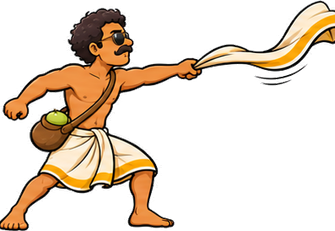
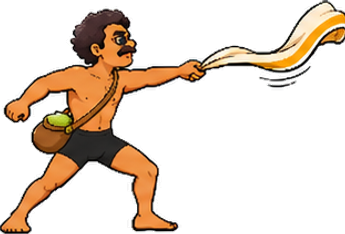
Mundu finale: updated Kannan sheet (one mundu, boxers after), he hangs from the mundu tied to the tusk, stones, sparks, dust, pulsing eye, shock ring and CRASH at the hit

Changed region(s): [[0.0, 0.0, 1.0, 1.0], [0.4478, 0.9091, 0.4776, 0.9394]]

diff --git a/index.html b/index.html
@@ -1089,7 +1089,29 @@ function mkPos(c,t){const gy=GY+1,te=mkTe(t),hold=t>=240&&t<240+MK_HOLD,headY=bo
   else if(te<302){x=c.bcx-c.dir*74;f='c'}
   else if(te<440){x=c.bcx-c.dir*74;f='b'}else{x=c.bcx-c.dir*74;f='m'}
   return {x,y,f}}
-function mkTick(){const c=cin;c.t++;const t=c.t,te=mkTe(t);
+/* Effects for the key illustration (stones and sparks leaping off the ground, dust, a pulsing eye, a shock ring at the hit). They are small canvases drawn on the full-resolution layer so they show over the illustration. */
+const MKFX={};
+function mkFxImg(k){if(MKFX[k])return MKFX[k];const c=document.createElement('canvas'),x=c.getContext('2d');
+  if(k==='stone'){c.width=9;c.height=8;x.fillStyle='#2a1c14';x.beginPath();x.moveTo(1,6);x.lineTo(2,2);x.lineTo(5,0);x.lineTo(8,3);x.lineTo(7,7);x.closePath();x.fill();x.fillStyle='#6a5240';x.beginPath();x.moveTo(2,2);x.lineTo(5,0);x.lineTo(6,2);x.lineTo(3,3);x.closePath();x.fill();x.fillStyle='#ffb840';x.fillRect(7,3,1,2)}
+  else if(k==='spark'){c.width=5;c.height=5;x.fillStyle='#fff6c0';x.fillRect(2,0,1,5);x.fillRect(0,2,5,1);x.fillStyle='#ffd860';x.fillRect(1,1,3,3)}
+  else if(k==='dust'||k==='glow'){c.width=c.height=48;const gr=x.createRadialGradient(24,24,2,24,24,24);if(k==='dust'){gr.addColorStop(0,'rgba(190,160,120,.7)');gr.addColorStop(1,'rgba(190,160,120,0)')}else{gr.addColorStop(0,'rgba(255,170,40,.95)');gr.addColorStop(1,'rgba(255,120,0,0)')}x.fillStyle=gr;x.fillRect(0,0,48,48)}
+  else if(k==='ring'){c.width=c.height=96;x.strokeStyle='rgba(255,236,170,.9)';x.lineWidth=5;x.beginPath();x.arc(48,48,42,0,6.2832);x.stroke()}
+  return MKFX[k]=c}
+function mkFxTick(c,t){const fx=c.fx||(c.fx=[]);
+  const hold=t>=240&&t<MK_HIT;
+  if(hold){shake=Math.max(shake,2+Math.floor((t-240)/30));
+    if(t%2===0)fx.push({k:'stone',x:W*(.08+Math.random()*.84),y:H-6,vx:(Math.random()-.5)*1.4,vy:-(2.4+Math.random()*3),g:.16,r:0,vr:(Math.random()-.5)*.3,l:70,s:1+Math.random()*.8});
+    if(t%3===0)fx.push({k:'spark',x:W*(.1+Math.random()*.8),y:H-10-Math.random()*60,vx:(Math.random()-.5)*.6,vy:-(.6+Math.random()*1.4),g:-.005,r:0,vr:0,l:60,s:1.2});
+    if(t%7===0)fx.push({k:'dust',x:W*(.05+Math.random()*.9),y:H-18,vx:(Math.random()-.5)*.5,vy:-.35,g:0,r:0,vr:0,l:60,s:1+Math.random()*.9})}
+  if(t===MK_HIT){for(let i=0;i<46;i++)fx.push({k:'stone',x:W*(.18+Math.random()*.6),y:H-8,vx:(Math.random()-.5)*5.5,vy:-(4+Math.random()*7),g:.2,r:0,vr:(Math.random()-.5)*.5,l:110,s:1.2+Math.random()*1.4});
+    for(let i=0;i<30;i++)fx.push({k:'spark',x:W*(.3+Math.random()*.4),y:H*.45+Math.random()*50,vx:(Math.random()-.5)*6,vy:-(1+Math.random()*4),g:.06,r:0,vr:0,l:70,s:1.4});
+    for(let i=0;i<6;i++)fx.push({k:'dust',x:W*(.15+Math.random()*.7),y:H-22,vx:(Math.random()-.5)*2,vy:-.8,g:0,r:0,vr:0,l:80,s:1.8+Math.random()})}
+  for(const p of fx){p.x+=p.vx;p.vy+=p.g;p.y+=p.vy;p.r+=p.vr;p.l--}
+  c.fx=fx.filter(p=>p.l>0&&p.y<H+20)}
+function mkFxDraw(c,t){const fx=c.fx||[];
+  for(const p of fx){const im=mkFxImg(p.k),a=Math.max(0,Math.min(1,p.l/(p.k==='dust'?40:25))),sz=Math.round(im.width*p.s*(p.k==='dust'?1+(70-Math.min(70,p.l))*.01:1));g.globalAlpha=a*(p.k==='dust'?.5:1);nimg(im,Math.round(p.x-sz/2),Math.round(p.y-sz/2),sz,sz)}
+  g.globalAlpha=1}
+function mkTick(){const c=cin;c.t++;const t=c.t,te=mkTe(t);mkFxTick(c,t);
   /* Pey Komban staggers away from the wall towards the middle of the arena */
   if(t<70){const u=Math.min(1,t/70),e=u*u*(3-2*u);boss.x=c.bx0+(c.bxT-c.bx0)*e}else boss.x=c.bxT;
   if(t===2){if(!sfx('boss_roar_komban'))beep(90,.5,'sawtooth',.07);shake=10}
@@ -1116,12 +1138,17 @@ function drawMk(cx){const c=cin,t=c.t,te=mkTe(t),big=ART.mk_big_0;
   if(bi>=0){const sway=bi===1?Math.round(Math.sin(t*.12)*2):0;g.globalAlpha=al;mkImg(ART['mk_b_'+bi],bx+sway,by,MKS_B*(bi===4?1:1),!flip);g.globalAlpha=1}
   if(t>=MK_HIT+14&&t<MK_HIT+160){const k=Math.min(1,(t-MK_HIT-14)/30)*(t>MK_HIT+100?Math.max(0,1-(t-MK_HIT-100)/60):1);glowEll(Math.round(c.bcx-cx),GY-30,Math.round(50*k)+8,Math.round(70*k)+8,'#ffd860',.3*k)}
   /* the mundu pulled taut between his hand and the tusk while he swings in */
-  if(t>=150&&t<240){const kp=mkPos(c,t),hx=Math.round(kp.x-cx)+c.dir*6,hy=Math.round(kp.y)-34,tx=Math.round(c.bcx-cx-c.dir*30),ty=GY-86,n=24;
-    g.fillStyle='#f4ecd0';for(let i=0;i<=n;i++){const u=i/n,px=Math.round(hx+(tx-hx)*u),py=Math.round(hy+(ty-hy)*u+Math.sin(u*Math.PI)*3);g.fillRect(px,py,2,2);if(i%5===0){g.fillStyle='#e0b840';g.fillRect(px,py,2,1);g.fillStyle='#f4ecd0'}}}
+  if(t>=150&&t<240){const kp=mkPos(c,t),hx=Math.round(kp.x-cx)+c.dir*4,hy=Math.round(kp.y)+22-(t<205?52:42),tx=Math.round(c.bcx-cx-c.dir*28),ty=GY-92,n=26;/* he hangs from the mundu tied to the tusk */
+    g.fillStyle="#f4ecd0";for(let i=0;i<=n;i++){const u=i/n,px=Math.round(hx+(tx-hx)*u),py=Math.round(hy+(ty-hy)*u+Math.sin(u*Math.PI)*2);g.fillRect(px,py,3,3);if(i%5===0){g.fillStyle='#e0b840';g.fillRect(px,py,2,1);g.fillStyle='#f4ecd0'}}}
   /* the key illustration: Kannan on the demon's head, the mundu knotted round his tusks, pulled tight */
   if(big&&t>=240-6&&t<MK_HIT+22){const fin=Math.min(1,(t-234)/14),fout=t>=MK_HIT?Math.max(0,1-(t-MK_HIT)/20):1,sh=t<MK_HIT?Math.round(Math.sin(t*1.7)*(1+(t-240)/60)):0;
     g.globalAlpha=1;g.fillStyle='rgba(8,6,20,'+(.9*fin*fout).toFixed(2)+')';g.fillRect(0,0,W,H);
-    const w=Math.max(W,Math.round(270*big.width/big.height))+10,h=Math.round(w*big.height/big.width);g.globalAlpha=fin*fout;nimg(big,Math.round((W-w)/2)+sh,-Math.round((h-H)*.3)+Math.round(sh/2),w,h);g.globalAlpha=1}
+    const w=Math.max(W,Math.round(270*big.width/big.height))+10,h=Math.round(w*big.height/big.width),ix=Math.round((W-w)/2)+sh,iy=-Math.round((h-H)*.3)+Math.round(sh/2);g.globalAlpha=fin*fout;nimg(big,ix,iy,w,h);
+    /* his eye pulses, the ground glows where the stones fly */
+    const pu=.65+.35*Math.sin(t*.35);g.globalAlpha=fin*fout*pu*.8;const gl=mkFxImg('glow');nimg(gl,Math.round(ix+w*.462-24),Math.round(iy+h*.404-24),48,48);
+    g.globalAlpha=1}
+  if(t>=MK_HIT&&t<MK_HIT+26){const u=(t-MK_HIT)/26,rs=Math.round(60+u*620);g.globalAlpha=1-u;nimg(mkFxImg('ring'),Math.round(W*.5-rs/2),Math.round(H*.55-rs/2),rs,rs);ntext('CRASH!',Math.round(W/2),Math.round(H*.18-u*12),Math.round(34+u*10),'#fff0b0','center');g.globalAlpha=1}
+  mkFxDraw(c,t);
   /* Thoma arrives with a fresh mundu */
   if(te>=360&&t>=240+MK_HOLD){const th=ART.hs_thoma_0;if(th){const tgx=c.bcx-c.dir*74-c.dir*38,from=c.dir>0?-40:W+40,p=Math.min(1,(te-360)/60),e=1-(1-p)*(1-p),tx=Math.round(from+(tgx-cx-from)*e);
       mkImg(th,tx,GY+3,66/300,c.dir<0)

diff --git a/tools/smoke-test.js b/tools/smoke-test.js
@@ -12,7 +12,7 @@ const only = args.includes('--only');
 const html = fs.readFileSync(path.join(__dirname, '..', 'index.html'), 'utf8');
 const js = html.match(/<script>([\s\S]*)<\/script>/)[1];
 
-const ctx = () => ({ imageSmoothingEnabled: false, measureText: () => ({ width: 5 }), fillText() {}, strokeText() {}, clearRect() {}, setTransform() {}, createImageData: (w, h) => ({ data: new Uint8ClampedArray(w * h * 4) }), putImageData() {}, drawImage() {}, fillRect() {}, save() {}, restore() {}, beginPath() {}, rect() {}, clip() {}, arc() {}, fill() {}, stroke() {}, moveTo() {}, lineTo() {}, translate() {}, scale() {}, set fillStyle(v) {}, set globalCompositeOperation(v) {} });
+const ctx = () => ({ imageSmoothingEnabled: false, measureText: () => ({ width: 5 }), fillText() {}, strokeText() {}, clearRect() {}, setTransform() {}, createImageData: (w, h) => ({ data: new Uint8ClampedArray(w * h * 4) }), putImageData() {}, drawImage() {}, fillRect() {}, save() {}, restore() {}, beginPath() {}, closePath() {}, createRadialGradient: () => ({ addColorStop() {} }), set strokeStyle(v) {}, set lineWidth(v) {}, rect() {}, clip() {}, arc() {}, fill() {}, stroke() {}, moveTo() {}, lineTo() {}, translate() {}, scale() {}, set fillStyle(v) {}, set globalCompositeOperation(v) {} });
 const el = () => ({ width: 0, height: 0, style: {}, getContext: ctx, addEventListener() {}, classList: { add() {}, remove() {} }, dataset: {}, setPointerCapture() {} });
 global.document = { addEventListener() {}, hidden: false, getElementById: el, createElement: el, querySelectorAll: () => [], documentElement: {}, fullscreenElement: null };
 global.window = global; global.innerWidth = 844; global.innerHeight = 390;
